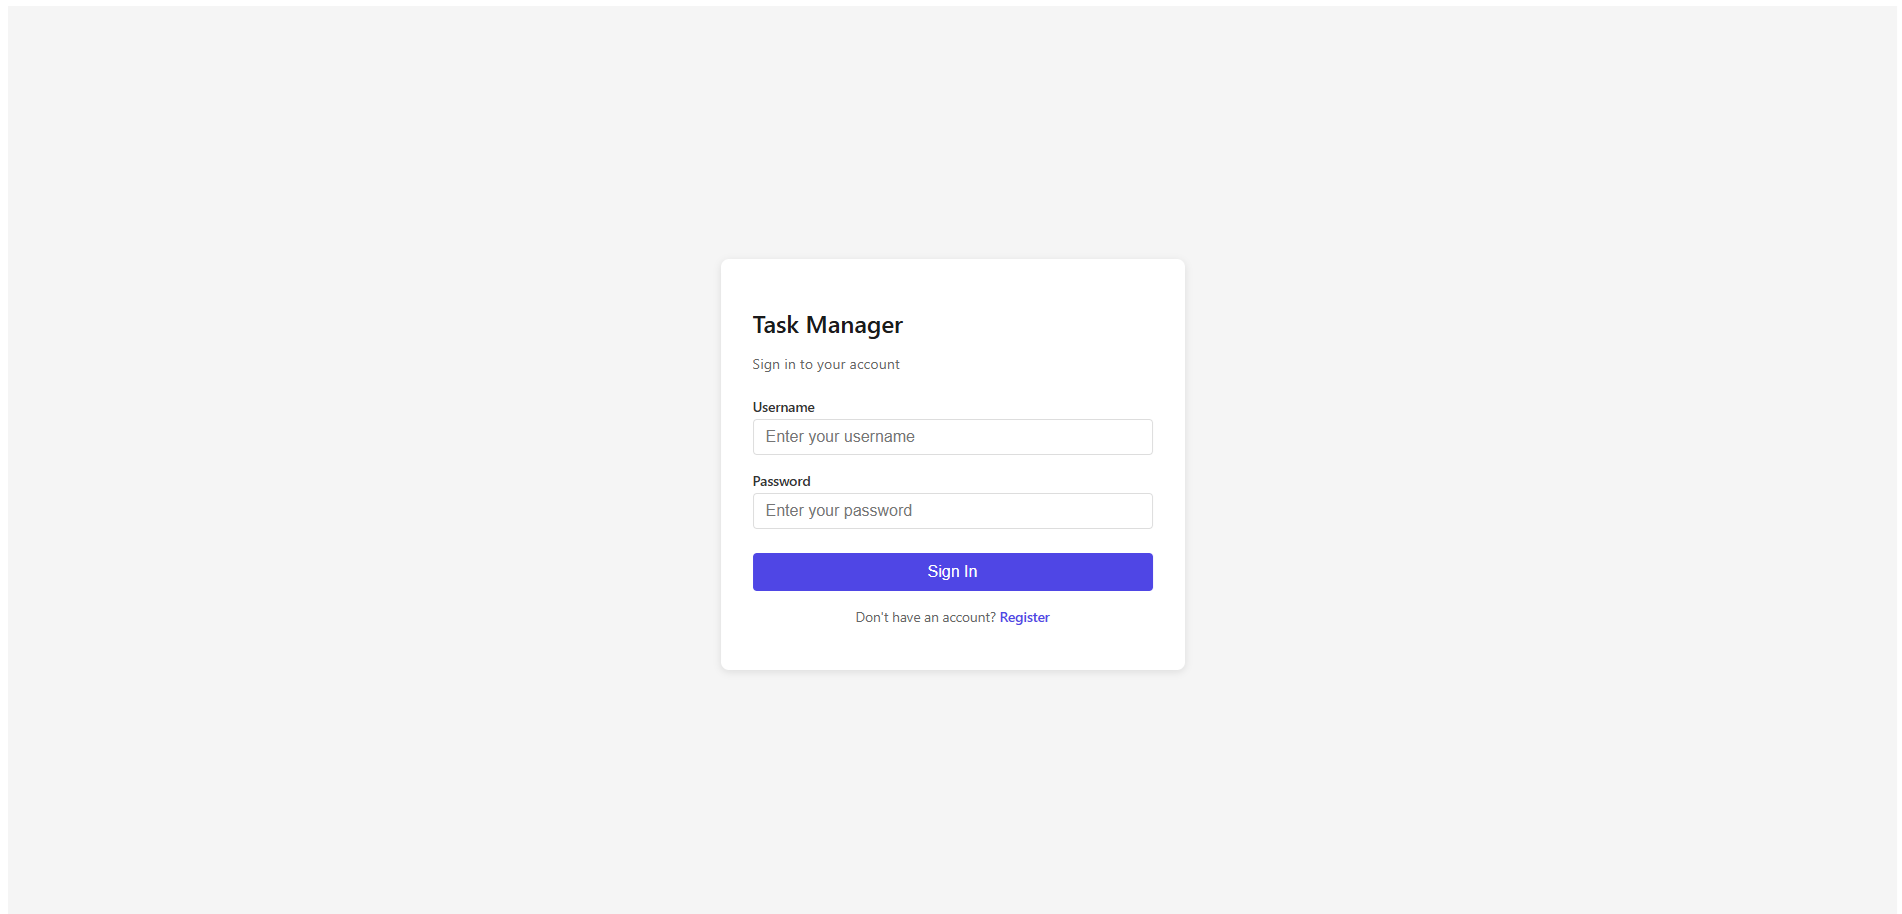
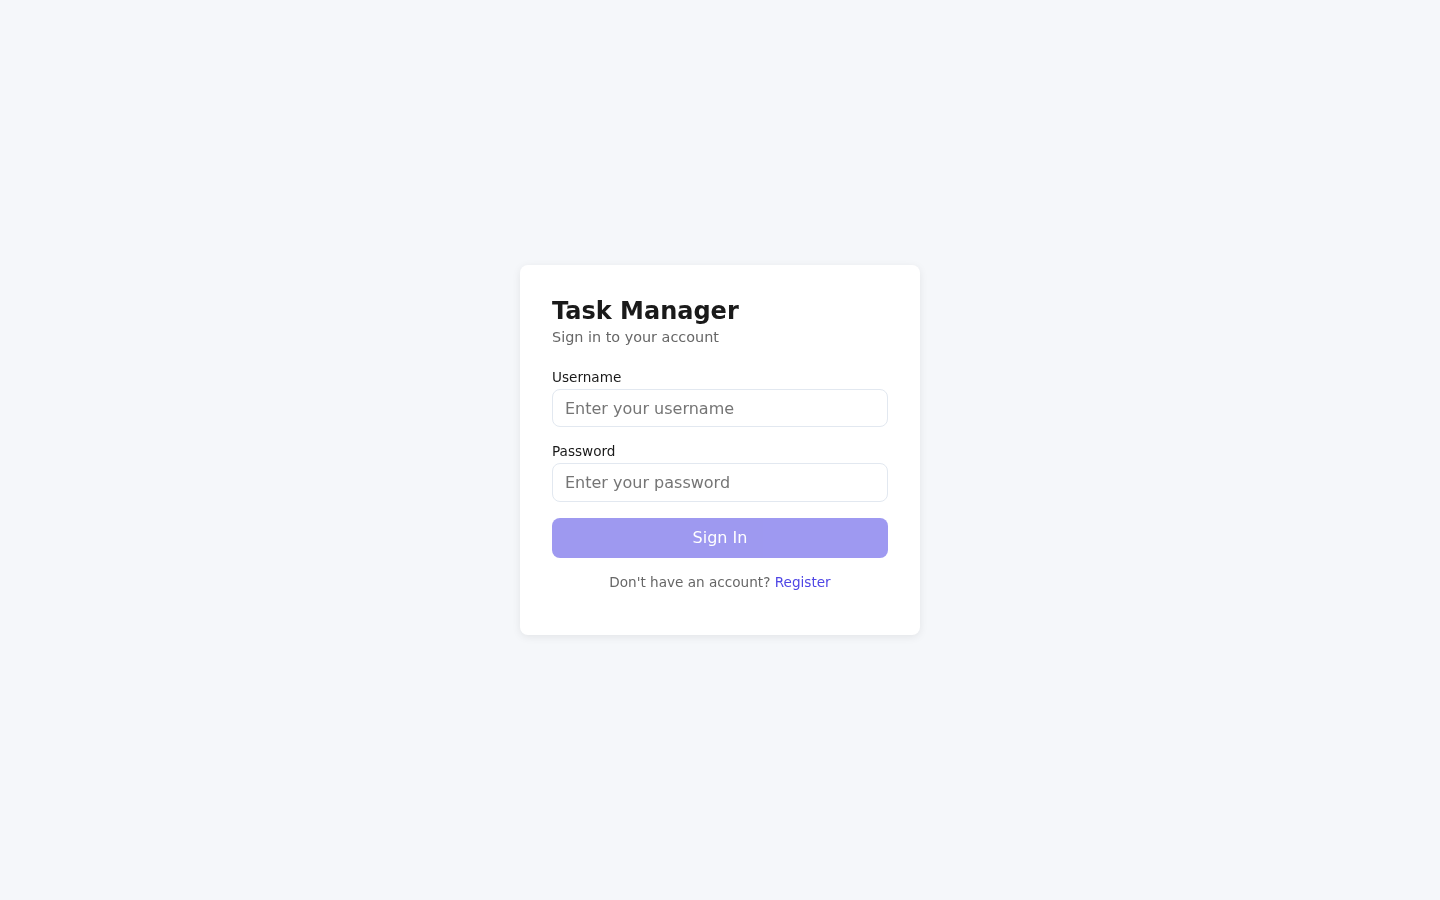
docs(screenshots): add login + register screenshots and scripts/screenshot.py

Changed region(s): [[0.375, 0.3111, 0.625, 0.6844]]

diff --git a/scripts/screenshot.py b/scripts/screenshot.py
@@ -1,0 +1,30 @@
+#!/usr/bin/env python3
+"""Take screenshots of task-manager pages. Usage:
+  python3 scripts/screenshot.py <url> <output.png> [width] [height]
+"""
+import sys
+from pathlib import Path
+from playwright.sync_api import sync_playwright
+
+def main():
+    if len(sys.argv) < 3:
+        print("Usage: python3 scripts/screenshot.py <url> <output.png> [width=1280] [height=800]")
+        sys.exit(1)
+    url = sys.argv[1]
+    out = Path(sys.argv[2])
+    width = int(sys.argv[3]) if len(sys.argv) > 3 else 1280
+    height = int(sys.argv[4]) if len(sys.argv) > 4 else 800
+    out.parent.mkdir(parents=True, exist_ok=True)
+
+    with sync_playwright() as p:
+        browser = p.chromium.launch(headless=True)
+        page = browser.new_page(viewport={"width": width, "height": height})
+        page.goto(url, wait_until="networkidle", timeout=20000)
+        # Give fonts/animations a moment to settle
+        page.wait_for_timeout(500)
+        page.screenshot(path=str(out), full_page=True)
+        browser.close()
+    print(f"Saved: {out} ({out.stat().st_size} bytes)")
+
+if __name__ == "__main__":
+    main()
